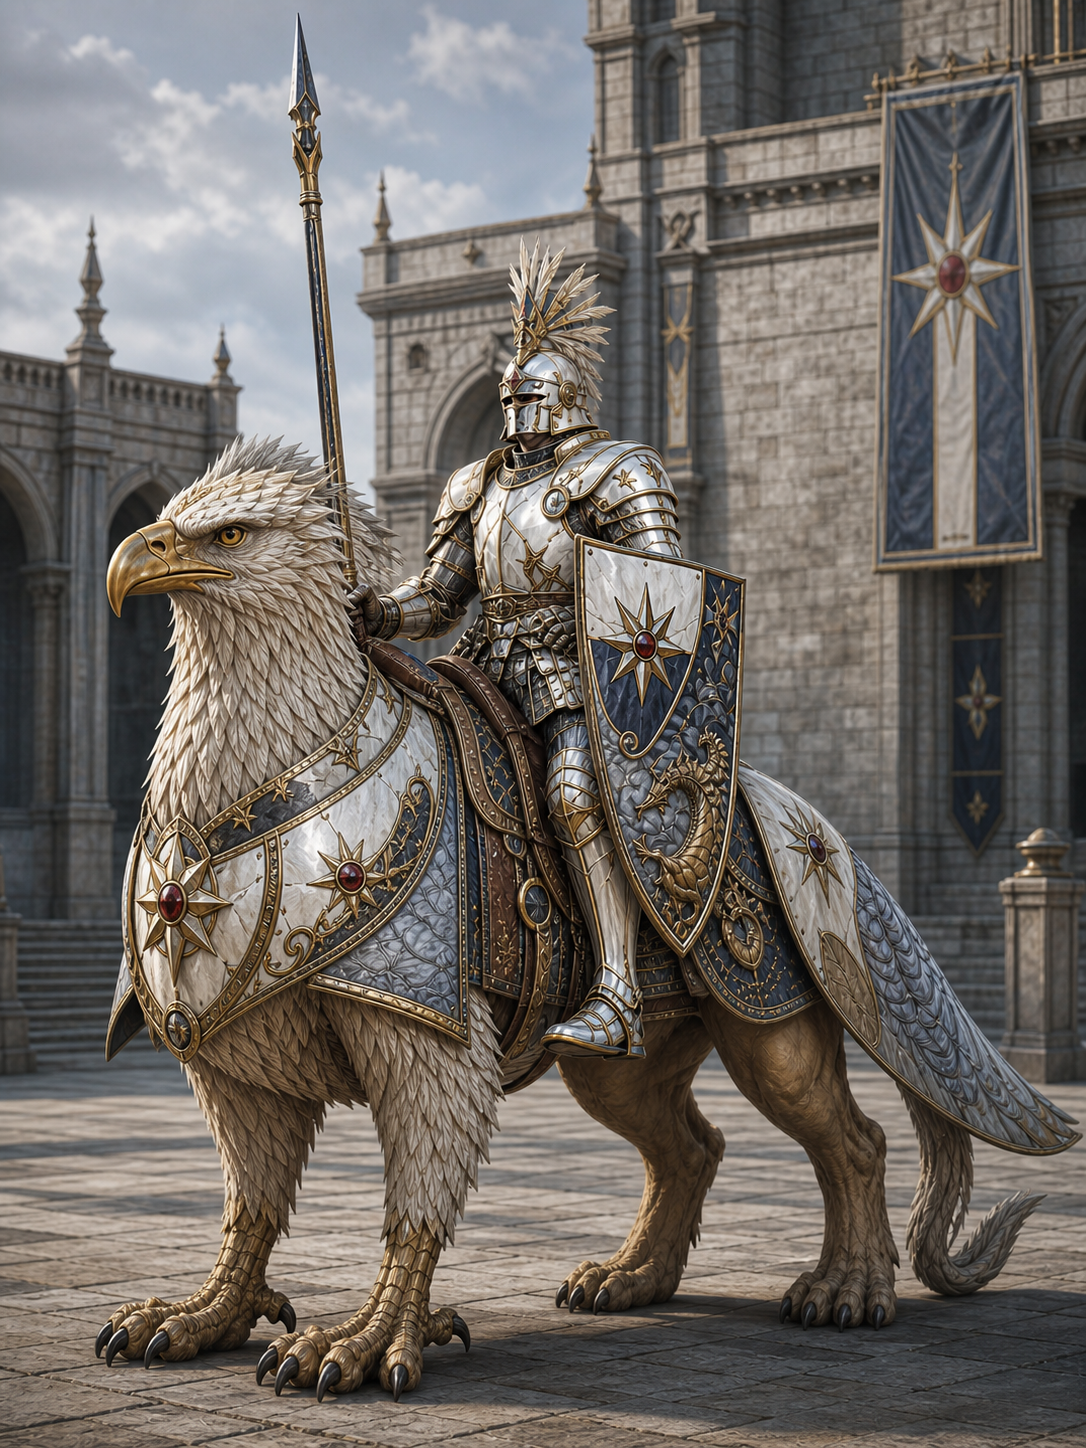
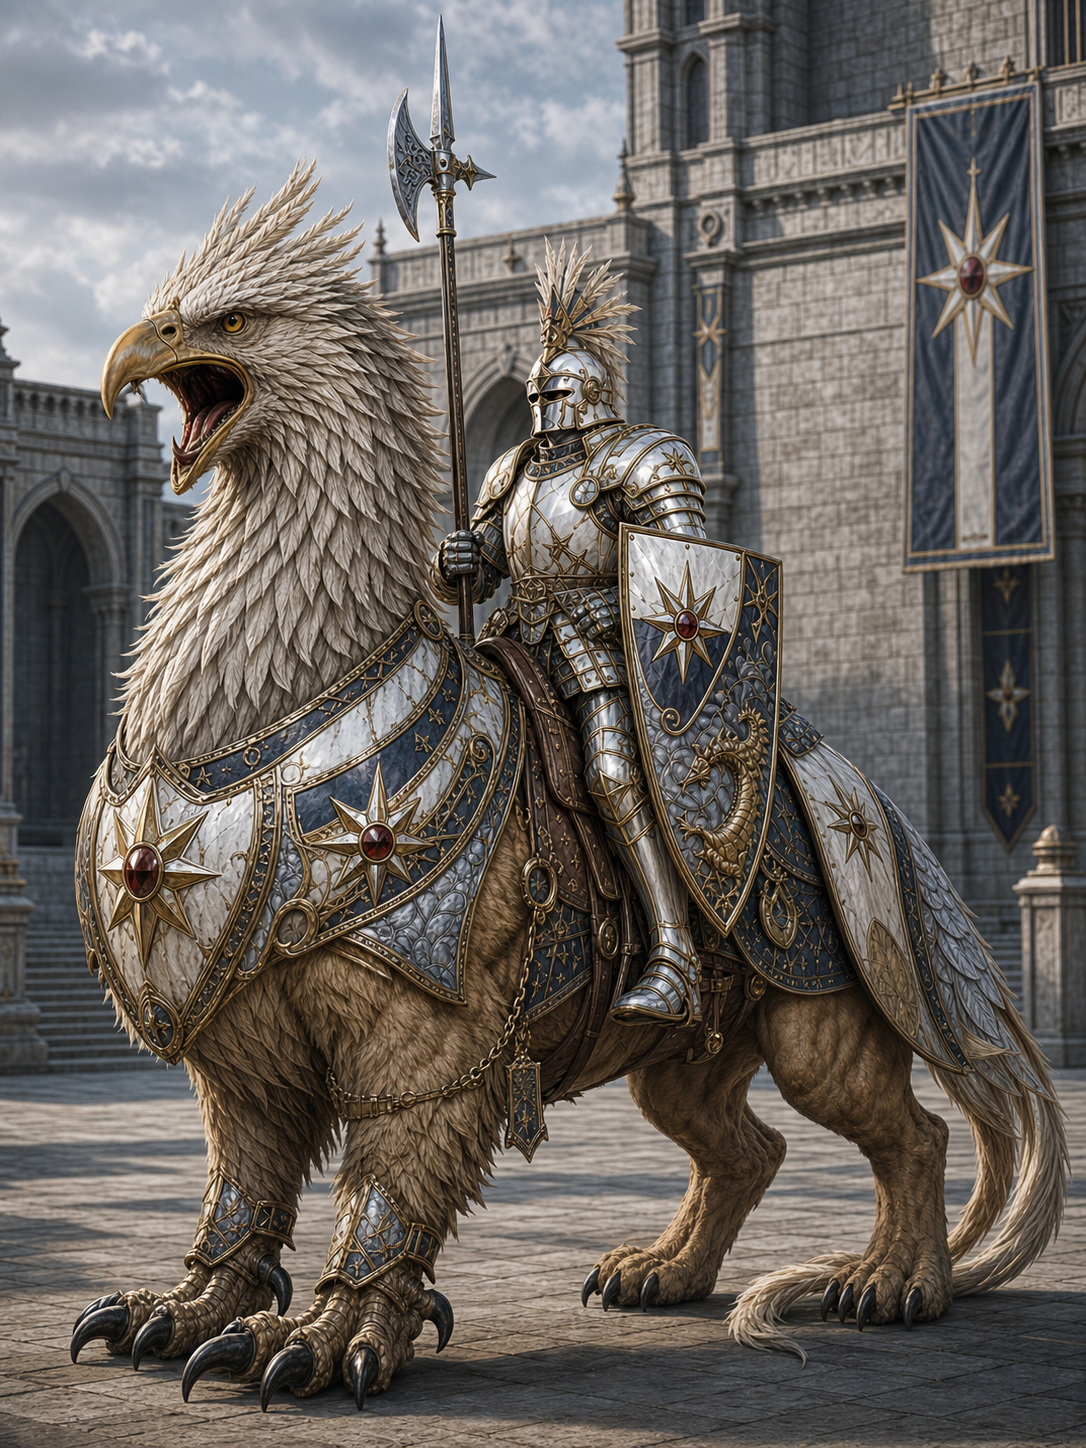
Обновить визуальные референсы всадников

diff --git a/07_Черновики_и_идеи/Входящие_сообщения.md b/07_Черновики_и_идеи/Входящие_сообщения.md
@@ -21,6 +21,56 @@ canon_level: draft
 Пока нет новых необработанных сообщений.
 ## Обработанные входящие
 
+### 2026-06-12. Визуал актива - всадники Никитосиоса со щитом
+
+Статус: обработано.
+Источник: `08_Источники/2026-06-12_визуал_актива_-_всадники_никитосиоса_со_щитом.md`
+Связано: `05_Активы_персонажей/Лорд_Никитосиос/Всадники_Никитосиоса.md`, `05_Активы_персонажей/Лорд_Никитосиос/Щит_Багровой_Гвардии.md`, `11_Медиа/Активы_персонажей/Лорд_Никитосиос/Всадники_Никитосиоса/Всадники_Никитосиоса_визуальный_референс.png`, `11_Медиа/Активы_персонажей/Лорд_Никитосиос/Всадники_Никитосиоса/Промпт_визуального_референса.md`, `11_Медиа/Активы_персонажей/Лорд_Никитосиос/Щит_Багровой_Гвардии/Промпт_визуального_референса.md`
+
+Кратко:
+
+- Обновлен основной визуальный референс всадников Никитосиоса: верховой зверь сделан крупнее и мощнее, алебарда выровнена, щит Багровой Гвардии возвращен в образ всадника.
+
+### 2026-06-12. Визуал актива - демигрифы Рейнбурга
+
+Статус: обработано.
+Источник: `08_Источники/2026-06-12_визуал_актива_-_демигрифы_рейнбурга.md`
+Связано: `05_Активы_персонажей/Император_Александрос/Демигрифы_Рейнбурга.md`, `11_Медиа/Активы_персонажей/Император_Александрос/Демигрифы_Рейнбурга/Демигрифы_Рейнбурга_визуальный_референс.png`, `11_Медиа/Активы_персонажей/Император_Александрос/Демигрифы_Рейнбурга/Промпт_визуального_референса.md`
+
+Кратко:
+
+- Обновлен визуальный референс демигрифов Рейнбурга: всадник сохранен как имперский паладин Александроса, демигриф сделан крупнее, живее и мощнее, оружие зафиксировано как ровная алебарда.
+
+### 2026-06-12. Визуал актива - ровное оружие всадников Никитосиоса
+
+Статус: обработано.
+Источник: `08_Источники/2026-06-12_визуал_актива_-_ровное_оружие_всадников_никитосиоса.md`
+Связано: `05_Активы_персонажей/Лорд_Никитосиос/Всадники_Никитосиоса.md`, `11_Медиа/Активы_персонажей/Лорд_Никитосиос/Всадники_Никитосиоса/Всадники_Никитосиоса_визуальный_референс.png`, `11_Медиа/Активы_персонажей/Лорд_Никитосиос/Всадники_Никитосиоса/Промпт_визуального_референса.md`
+
+Кратко:
+
+- Основной визуальный референс всадников Никитосиоса заменен на версию с почти вертикальным ровным двулезвийным древковым оружием; диагональный вариант с ощущением залома больше не используется.
+
+### 2026-06-12. Визуал актива - всадники Никитосиоса без щита
+
+Статус: обработано.
+Источник: `08_Источники/2026-06-12_визуал_актива_-_всадники_никитосиоса_без_щита.md`
+Связано: `05_Активы_персонажей/Лорд_Никитосиос/Всадники_Никитосиоса.md`, `05_Активы_персонажей/Лорд_Никитосиос/Щит_Багровой_Гвардии.md`, `11_Медиа/Активы_персонажей/Лорд_Никитосиос/Всадники_Никитосиоса/Всадники_Никитосиоса_визуальный_референс.png`, `11_Медиа/Активы_персонажей/Лорд_Никитосиос/Всадники_Никитосиоса/Промпт_визуального_референса.md`
+
+Кратко:
+
+- Основной визуальный референс всадников Никитосиоса исправлен: щит полностью убран, древко двулезвийного оружия сделано ровным, связь с Багровой Гвардией остается через броню, палитру и северный стиль.
+
+### 2026-06-12. Визуал актива - новые всадники Никитосиоса
+
+Статус: обработано.
+Источник: `08_Источники/2026-06-12_визуал_актива_-_новые_всадники_никитосиоса.md`
+Связано: `05_Активы_персонажей/Лорд_Никитосиос/Всадники_Никитосиоса.md`, `11_Медиа/Активы_персонажей/Лорд_Никитосиос/Всадники_Никитосиоса/Всадники_Никитосиоса_визуальный_референс.png`, `11_Медиа/Активы_персонажей/Лорд_Никитосиос/Всадники_Никитосиоса/Промпт_визуального_референса.md`
+
+Кратко:
+
+- Заменен основной визуальный референс всадников Никитосиоса: вместо коня теперь хищный ящероподобный верховой зверь, добавлено двулезвийное древковое оружие, сохранен черно-багровый щит Багровой Гвардии и более легкая броня.
+
 ### 2026-06-10. Сюжет - Михаэль: прибытие в Порт-Лабад и письмо Картоса
 
 Статус: обработано.

diff --git a/05_Активы_персонажей/Лорд_Никитосиос/Всадники_Никитосиоса.md b/05_Активы_персонажей/Лорд_Никитосиос/Всадники_Никитосиоса.md
@@ -10,14 +10,14 @@ parent_asset: Багровая Гвардия
 front_id: FRONT-CRIMSON-PEAK
 visual: 11_Медиа/Активы_персонажей/Лорд_Никитосиос/Всадники_Никитосиоса/Всадники_Никитосиоса_визуальный_референс.png
 visual_status: available
-updated_real_date: 2026-06-10
+updated_real_date: 2026-06-12
 ---
 
 ## Кратко
 
-Всадники Никитосиоса - конная ветвь северной силы Лорда Багровых Пиков, визуально связанная с Багровой Гвардией, но приспособленная к седлу и движению.
+Всадники Никитосиоса - верховая ветвь северной силы Лорда Багровых Пиков, визуально связанная с Багровой Гвардией, но приспособленная к седлу и движению.
 
-Это отдельный визуальный и организационный слой внутри военного языка Никитосиоса. Точная численность, внутреннее деление, типы ездовых животных и боевая готовность не зафиксированы.
+Это отдельный визуальный и организационный слой внутри военного языка Никитосиоса. Точная численность, внутреннее деление, происхождение ездовых зверей и боевая готовность не зафиксированы.
 
 ## Владелец и подчинение
 
@@ -31,17 +31,19 @@ updated_real_date: 2026-06-10
 
 - броня родственна Багровой Гвардии, но чуть легче и подвижнее;
 - основная палитра сохраняет черную обсидиановую сталь и багровые ткани;
-- всадники используют общий щитовый язык Багрового Пика;
+- основной референс заменяет коня крупным хищным ящероподобным верховым зверем с броней, длинным хвостом и тяжелой кавалерийской массой;
+- в основном визуальном языке всадников закреплена длинная алебарда с ровным почти вертикальным древком;
+- в основной верховой референс возвращен щит по языку отдельного актива `Щит Багровой Гвардии`;
 - визуал показывает типичного представителя, а не именного персонажа.
 
-Точные численность, штат, вид конницы, снабжение, место постоянной дислокации и реальная боевая роль остаются открытыми.
+Точные численность, штат, порода или происхождение ездовых зверей, снабжение, место постоянной дислокации и реальная боевая роль остаются открытыми.
 
 ## Роль
 
 - мобильное продолжение военного стиля Никитосиоса;
 - сопровождение, демонстрация силы и возможная полевая поддержка Багровой Гвардии;
 - визуальный мост между тяжелой северной пехотой и более подвижными задачами Багрового Пика;
-- носители общего щита Багровой Гвардии в конном варианте.
+- верховой вариант военного языка Багровой Гвардии с тем же черно-багровым щитовым мотивом, адаптированным к седлу.
 
 ## Визуальный канон
 
@@ -51,23 +53,24 @@ updated_real_date: 2026-06-10
 
 - черная или темно-обсидиановая броня, связанная с Багровой Гвардией;
 - более мобильные сочленения, посадка и плащ, пригодные для верховой службы;
-- багровый шарф, мантия, тканевые вставки или конское покрывало;
+- крупный хищный ящероподобный верховой зверь вместо лошади: длинный хвост, когтистые лапы, узкая голова, темная чешуя, черненая броня и ощущение мощной тяжелой верховой массы;
+- длинная ровная почти вертикальная алебарда с крупным читаемым наконечником, если она не получает новых особых свойств;
+- щит Багровой Гвардии на всаднике: черная сталь, багровые панели, драконьи рельефы и центральная звезда с темно-красным камнем;
+- багровый шарф, мантия, тканевые вставки или покрывало/сбруя на ездовом звере;
 - закрытый или почти закрытый шлем;
-- общий щит Багрового Пика с черно-багровым драконьим мотивом;
 - северная крепостная эстетика без паладинского золота, тар-эламской южной роскоши и демонических элементов.
 
 ## Ограничения и риски
 
 - Не задавать точную численность всадников.
-- Не считать тип ездовых животных окончательно установленным только по визуальному референсу.
+- Не считать точную породу, происхождение, численность или свойства ездовых зверей установленными только по визуальному референсу.
 - Не превращать всадников в готовых драконьих всадников или отдельный драконий корпус.
-- Не добавлять магические свойства брони, щита, коней или оружия.
+- Не добавлять магические свойства брони, ездовых зверей или оружия.
 - Не смешивать всадников Никитосиоса с демигрифами Александроса, рыцарями дракона или гвардией Михаэля.
 
 ## Связанные файлы
 
 - `05_Активы_персонажей/Лорд_Никитосиос/Багровая_Гвардия.md`
-- `05_Активы_персонажей/Лорд_Никитосиос/Щит_Багровой_Гвардии.md`
 - `03_Персонажи/Лорд_Никитосиос.md`
 - `03_Персонажи/Капитан_Эйганн.md`
 - `04_Локации/Багровый_Пик.md`

diff --git a/11_Медиа/Активы_персонажей/Лорд_Никитосиос/Всадники_Никитосиоса/Промпт_визуального_референса.md b/11_Медиа/Активы_персонажей/Лорд_Никитосиос/Всадники_Никитосиоса/Промпт_визуального_референса.md
@@ -6,7 +6,7 @@ status: available
 canon_level: support
 owner: Лорд Никитосиос
 asset: Всадники Никитосиоса
-updated_real_date: 2026-06-10
+updated_real_date: 2026-06-12
 ---
 
 ## Основной файл
@@ -15,35 +15,40 @@ updated_real_date: 2026-06-10
 
 ## Задача
 
-Создать визуальный референс типичного всадника Никитосиоса: конная ветвь в общем стиле Багровой Гвардии, но с немного иной, более мобильной броней и обязательным общим щитом.
+Создать новый основной визуальный референс типичного всадника Никитосиоса: верховая ветвь в общем стиле Багровой Гвардии, но с более мобильной броней, щитом Багровой Гвардии, крупным хищным ящероподобным ездовым зверем вместо лошади и длинной алебардой с ровным почти вертикальным древком.
 
 ## Референсы
 
 - `identity_reference`: `05_Активы_персонажей/Лорд_Никитосиос/Багровая_Гвардия.md`.
-- `identity_reference`: `11_Медиа/Активы_персонажей/Лорд_Никитосиос/Багровая_Гвардия/Багровая_Гвардия_визуальный_референс.png`.
 - `identity_reference`: `05_Активы_персонажей/Лорд_Никитосиос/Щит_Багровой_Гвардии.md`.
+- `identity_reference`: `11_Медиа/Активы_персонажей/Лорд_Никитосиос/Багровая_Гвардия/Багровая_Гвардия_визуальный_референс.png`.
 - `identity_reference`: `11_Медиа/Активы_персонажей/Лорд_Никитосиос/Щит_Багровой_Гвардии/Щит_Багровой_Гвардии_визуальный_референс.png`.
-- `user_reference`: пользователь просит всадников Никитоса, броню немного другую, но похожую на основу, и общий черно-багровый щит для гвардии и всадников.
+- `user_reference`: пользователь приложил образ всадника на хищном ящероподобном верховом звере с длинным хвостом, броней и крупным двулезвийным древковым оружием; просит заменить старую лошадь на похожего зверя, сделать броню/одежду похожей, но легче, а оружие - ровным. После промежуточных версий уточнил, что оружие должно быть прямым, зверь - большим и мощным, оружие - ровной алебардой, а щит нужно вернуть из актива Никитосиоса.
 
 ## Must Keep
 
 - Один типичный всадник, не именной персонаж.
 - Черно-багровая палитра Багрового Пика.
 - Броня похожа на Багровую Гвардию, но более удобна для верховой службы.
-- Общий щит Багровой Гвардии должен быть виден.
+- Верховой зверь должен читаться как крупный, мощный и величественный хищный ящероподобный боевой зверь, а не лошадь.
+- Длинная алебарда должна быть видна, с прямым ровным почти вертикальным древком.
+- Щит должен повторять язык актива `Щит Багровой Гвардии`: черная сталь, багровые панели, драконьи рельефы, центральная звезда и темно-красный камень.
 - Северная крепостная атмосфера, без сцены боя.
 
 ## Must Not Add
 
 - Не делать всадника паладином, рыцарем дракона, демигрифным паладином Александроса или воином Тар-Элама.
 - Не канонизировать драконьих всадников, зрелых драконов или отдельный драконий корпус.
+- Не превращать верхового зверя в лошадь, демигрифа, полноценного дракона или боевого грифона.
+- Не заменять щит случайным паладинским, гномьим, тар-эламским или сине-золотым вариантом.
+- Не делать древко оружия кривым, сломанным, расплавленным или перекрученным.
 - Не задавать точные числа, свойства брони, магические эффекты или штат подразделения.
 - Не добавлять текст, логотипы, рамки, водяные знаки или лишних персонажей.
 
 ## Prompt
 
-Use case: stylized-concept. Asset type: character asset visual reference for a mounted elite unit. Primary request: Visual reference for the mounted riders of Lord Nikitosios, using the same black-and-crimson heraldic shield language as his Crimson Guard. Subject: One typical mounted rider of Nikitosios, posed calmly and not in battle, seated on a dark armored warhorse or other generic dark war mount. The rider should wear heavy but slightly more mobile armor than the Crimson Guard: black obsidian-steel plates, deep crimson cloth accents, reinforced gloves, articulated leg armor, a shorter cloak or riding mantle, and a closed or mostly closed helmet. The armor should feel clearly related to the Crimson Guard but adapted for saddle use and movement. The rider carries the shared black-and-crimson heraldic shield on the arm or strapped near the saddle, so the shield reads as part of both the Guard and the riders. Scene/backdrop: cold northern fortress courtyard of the Crimson Peak, stone towers, snow-dusted ground, red banners faint in the distance, no active combat. Style/medium: cinematic realistic heroic dark fantasy concept art, high-detail materials, solemn military visual reference. Composition/framing: vertical 3:4, one mounted rider centered, horse and rider fully or nearly fully visible, clear readable silhouette, the shield clearly visible. Lighting/mood: cold northern daylight, dramatic shadows on black metal, restrained crimson highlights, disciplined and severe atmosphere. Color palette: black, dark steel, deep crimson, muted snow gray, small antique silver highlights. Materials/textures: scuffed blackened steel, worn crimson cloth, leather straps, saddle gear, dark horse tack, brushed metal shield edge, realistic patina. Constraints: show a mounted unit visual reference, not a battle scene; no text, no logos, no watermark, no frame; keep the rider visually related to the Crimson Guard but lighter and more mobile; do not make it look like Tar-Elam, paladins, or a cavalry unit from another kingdom.
+Use case: precise-object-edit. Asset type: project-bound character asset visual reference for the mounted riders of Lord Nikitosios. Primary request: corrected replacement version of the mounted rider image: make the mount larger and more imposing, add the Crimson Guard shield from the separate shield asset, and fix the weapon as a straight upright halberd. Subject: one typical mounted rider of Lord Nikitosios, not a named character, seated on a massive predatory reptilian mount instead of a horse. The mount should resemble a dark armored fantasy raptor or drake-beast: long tail, clawed feet, narrow predatory head, organic scales, fitted blackened metal barding, and heavy cavalry presence. Rider: black obsidian-steel armor related to the Crimson Guard but lighter and more mobile for riding, articulated plates, crimson scarf or short riding mantle, dark leather straps, closed or mostly closed helmet, severe northern fortress style. Shield: one visible Crimson Guard shield on the rider, using the established shield asset design - black steel, deep crimson panels, dragon reliefs, central star medallion with a dark red gem; the shield must be integrated naturally with the rider and not float. Weapon: one single long halberd held upright beside the rider, with a readable axe blade and spear point, and a perfectly straight dark shaft; the shaft must be a single continuous cylinder from the rider's hand to the blade, with no kink at the hand, no curve, no bend, no offset segments, no double shaft and no perspective warp. Scene/backdrop: cold northern fortress courtyard of the Crimson Peak, stone towers, snow-dusted ground, faint crimson banners, no active combat. Style/medium: cinematic realistic heroic dark fantasy concept art, high-detail materials, project visual reference quality, not anime, not comic. Composition/framing: vertical 3:4, full or nearly full mount and rider visible, centered readable silhouette, the shield is clearly visible, the upright halberd is clear against the background and does not cross the rider's torso, single rider only. Lighting/mood: cold northern daylight, dramatic shadows on blackened metal, restrained crimson highlights, disciplined and severe. Color palette: black, dark steel, deep crimson, muted snow gray, small antique silver highlights; no blue-dominant palette, no bright gold paladin armor. Materials/textures: scuffed blackened steel, worn crimson cloth, reptilian scales, leather saddle harness, realistic patina, dragon-relief shield face. Constraints: include exactly one visible Crimson Guard shield; no text, no logo, no watermark, no frame; no extra people; no battle scene; do not add magical effects; do not imply a mature dragon corps; replace the horse with the reptilian mount.
 
 ## Negative Prompt
 
-no anime, no cartoon, no comic style, no modern objects, no firearms, no blue-dominant palette, no desert motifs, no bright gold paladin armor, no oversized fantasy horns, no random heraldry, no extra people, no cluttered background, no readable text, no logo, no watermark
+no missing shield, no random shield design, no blue shield, no gold paladin shield, no buckler, no anime, no cartoon, no comic style, no modern objects, no firearms, no diagonal polearm, no curved shaft, no bent polearm, no kinked shaft, no two-part shaft, no offset shaft, no warped weapon, no melted metal, no blue-dominant palette, no desert motifs, no bright gold paladin armor, no oversized fantasy horns, no random heraldry, no extra people, no cluttered background, no readable text, no logo, no watermark

diff --git a/11_Медиа/Активы_персонажей/Император_Александрос/Демигрифы_Рейнбурга/Промпт_визуального_референса.md b/11_Медиа/Активы_персонажей/Император_Александрос/Демигрифы_Рейнбурга/Промпт_визуального_референса.md
@@ -6,7 +6,7 @@ status: available
 canon_level: support
 owner: Император Александрос
 asset: Демигрифы Рейнбурга
-updated_real_date: 2026-06-10
+updated_real_date: 2026-06-12
 ---
 
 ## Основной файл
@@ -15,22 +15,25 @@ updated_real_date: 2026-06-10
 
 ## Задача
 
-Создать основной визуальный референс демигрифов Рейнбурга как формирующейся верховой силы Александроса: один паладин в бело-золотой имперской броне на одном демигрифе, без сцены боя и без группы.
+Создать основной визуальный референс демигрифов Рейнбурга как формирующейся верховой силы Александроса: один паладин в бело-золотой имперской броне на одном крупном и величественном демигрифе, без сцены боя и без группы. Обновление от 2026-06-12: самого солдата оставить в прежнем паладинском типе, но демигрифа сделать больше, живее, мощнее и сочнее по пользовательскому референсу; оружие всадника должно читаться как ровная алебарда.
 
 ## Референсы
 
 - `identity_reference`: `05_Активы_персонажей/Император_Александрос/Демигрифы_Рейнбурга.md`.
 - `identity_reference`: `01_Кампания/Ветки/Александрос/Сцена_020_Королевский_грифон_и_демигрифы_Рейнбурга.md`.
 - `identity_reference`: `04_Локации/Рейнбург.md`.
+- `user_reference`: изображение с крупным величественным боевым демигрифом/грифоньим верховым зверем, переданное пользователем 2026-06-12.
 - `style_reference`: Империя Света, паладины Александроса, Рейнбург как военный город-академия, светлая тяжелая кавалерия, высокая дисциплина.
 
 ## Must Keep
 
 - Один паладин Александроса верхом на одном демигрифе.
-- Демигриф должен читаться как крепкое верховое существо с львиным телом и орлиной головой, а не как лошадь.
+- Демигриф должен читаться как крупное, величественное и мощное верховое существо с львиным телом, орлиной головой, выразительным хохлом, тяжелыми лапами и живым характером, а не как лошадь.
 - Бело-золотая имперская паладинская эстетика с серебристой сталью и аккуратной геральдикой Света.
+- Паладин должен сохранять прежний солдатский типаж и не становиться новым именным персонажем.
+- Оружие всадника - одна четко читаемая алебарда с прямым древком и чистой геометрией наконечника.
 - Рейнбургская военная подача: камень, башни, академическая строгость, тренировочный или парадный порядок.
-- Вертикальный формат 3:4, читаемый силуэт, возможность рассмотреть броню, седло, щит, копье и демигрифа.
+- Вертикальный формат 3:4, читаемый силуэт, возможность рассмотреть броню, седло, щит, алебарду и демигрифа.
 
 ## Must Not Add
 
@@ -38,12 +41,13 @@ updated_real_date: 2026-06-10
 - Не превращать демигрифов в лошадей, драконов, обычных грифонов или королевского грифона Александроса.
 - Не делать сцену штурма, массовую битву, карту или сюжетную иллюстрацию.
 - Не смешивать с Багровой Гвардией Никитосиоса, рыцарями дракона, Тар-Эламом или орденами Боромира.
+- Не делать оружие кривым, волнистым, сломанным, раздвоенным или расплавленным; не добавлять несколько конфликтующих древковых оружий.
 - Не добавлять читаемый текст, логотипы, рамки или водяные знаки.
 
 ## Prompt
 
-Use case: stylized-concept. Asset type: character asset visual reference for a fantasy campaign archive. Primary request: A visual reference of Alexandros's Rheinburg demigryph cavalry, shown as a single imperial paladin mounted on one demigryph. Scene/backdrop: Rheinburg training yard or parade ground, sober imperial military setting, stone towers and academy architecture in the background, not a battle scene. Subject: one mounted paladin in white-and-gold imperial plate on a sturdy demigryph. The demigryph should read clearly as a lion-eagle heavy cavalry mount: powerful leonine body, eagle head, feathered neck, talons, disciplined posture, fitted cavalry tack and barding. Style/medium: cinematic realistic dark fantasy illustration, high detail, polished concept art, serious heroic tone. Composition/framing: vertical 3:4, full-body subject, clear silhouette, no group, no extra riders, no extreme foreshortening. Lighting/mood: crisp daylight, noble, disciplined, ceremonial but militarily credible. Color palette: ivory, white, burnished gold, pale steel, deep blue accents, stone gray, restrained crimson heraldry. Materials/textures: polished plate armor, heraldic cloth, feathered and scaled barding, leather tack, steel lance tips, engraved saddle hardware, stone and metal architecture in the background. Constraints: the subject must clearly be Alexandros's imperial paladin on a demigryph; do not make it a horse; do not depict dragons or the royal griffon as the main mount; no text, no watermark, no logo, no modern gear; keep it as a reference image for the unit rather than a combat scene.
+Use case: stylized-concept. Asset type: character asset visual reference for a fantasy campaign archive. Primary request: A visual reference of Alexandros's Rheinburg demigryph cavalry, shown as a single imperial paladin mounted on one large majestic demigryph. Scene/backdrop: Rheinburg training yard or parade ground, sober imperial military setting, stone towers and academy architecture in the background, not a battle scene. Subject: one mounted paladin in white-and-gold imperial plate on a massive, vivid, powerful demigryph; preserve the rider's existing imperial paladin identity and heraldic style. The demigryph should read clearly as a lion-eagle heavy cavalry mount: overwhelming leonine body, eagle head, proud feathered crest and mane, open intense expression, talons, muscular legs, disciplined posture, fitted cavalry tack and barding. The rider must carry one clean straight halberd with a perfectly straight shaft and a readable halberd head; avoid a spear-like silhouette. Style/medium: cinematic realistic dark fantasy illustration, high detail, polished concept art, serious heroic tone, rich and alive. Composition/framing: vertical 3:4, full-body subject, clear silhouette, no group, no extra riders, no extreme foreshortening. Lighting/mood: crisp daylight, noble, disciplined, ceremonial but militarily credible, with a strong sense of weight and power. Color palette: ivory, white, burnished gold, pale steel, deep blue accents, stone gray, restrained crimson heraldry. Materials/textures: polished plate armor, heraldic cloth, feathered and scaled barding, leather tack, straight halberd shaft and steel blade, engraved saddle hardware, stone and metal architecture in the background. Constraints: the subject must clearly be Alexandros's imperial paladin on a demigryph; do not make it a horse; do not depict dragons or the royal griffon as the main mount; no text, no watermark, no logo, no modern gear; keep it as a reference image for the unit rather than a combat scene.
 
 ## Negative Prompt
 
-no anime, no cartoon, no comic style, no modern clothing, no modern weapons, no firearms, no glowing sci-fi armor, no horse anatomy, no dragons, no black-and-crimson obsidian Crimson Guard palette, no desert motifs, no Tar-Elam ornamentation, no chaotic battlefield, no random heraldry, no extra limbs, no distorted hands, no cluttered background, no readable text, no logo, no watermark
+no anime, no cartoon, no comic style, no modern clothing, no modern weapons, no firearms, no glowing sci-fi armor, no horse anatomy, no dragons, no ordinary griffon, no royal griffon as the main mount, no black-and-crimson obsidian Crimson Guard palette, no desert motifs, no Tar-Elam ornamentation, no chaotic battlefield, no random heraldry, no extra limbs, no distorted hands, no bent weapon shaft, no wavy halberd, no broken polearm, no duplicated halberds, no cluttered background, no readable text, no logo, no watermark

diff --git a/08_Источники/2026-06-12_визуал_актива_-_всадники_никитосиоса_без_щита.md b/08_Источники/2026-06-12_визуал_актива_-_всадники_никитосиоса_без_щита.md
@@ -1,0 +1,12 @@
+# Визуал актива - всадники Никитосиоса без щита
+
+---
+type: source_note
+status: processed
+canon_level: draft
+received_real_date: 2026-06-12
+---
+
+```text
+Пользователь уточнил правку визуального референса всадников Никитосиоса / Багровой кавалерии: убрать щит полностью и исправить оружие, потому что древко в предыдущей версии получилось кривым. Итоговый визуал должен показывать всадника на ящероподобном верховом звере без щита, с ровным длинным двулезвийным древковым оружием.
+```

diff --git a/08_Источники/2026-06-12_визуал_актива_-_всадники_никитосиоса_со_щитом.md b/08_Источники/2026-06-12_визуал_актива_-_всадники_никитосиоса_со_щитом.md
@@ -1,0 +1,12 @@
+# Визуал актива - всадники Никитосиоса со щитом
+
+---
+type: source_note
+status: processed
+canon_level: draft
+received_real_date: 2026-06-12
+---
+
+```text
+Пользователь попросил обновить визуальный референс всадников Никитосиоса: сделать верхового зверя большим и мощным, алебарду ровной и прямой, а также добавить щит из отдельного актива Никитосиоса - Щит Багровой Гвардии.
+```

diff --git a/08_Источники/2026-06-12_визуал_актива_-_демигрифы_рейнбурга.md b/08_Источники/2026-06-12_визуал_актива_-_демигрифы_рейнбурга.md
@@ -1,0 +1,12 @@
+# Визуал актива - демигрифы Рейнбурга
+
+---
+type: source_note
+status: processed
+canon_level: draft
+received_real_date: 2026-06-12
+---
+
+```text
+Пользователь попросил заменить визуальный референс демигрифов Рейнбурга в активах Императора Александроса. Требования: самого солдата оставить прежним по типажу, демигрифа сделать крупным, величественным, живым, мощным и сочным по приложенному референсу; рыцарь должен быть с алебардой, оружие должно быть ровным и читаемым.
+```

diff --git a/08_Источники/2026-06-12_визуал_актива_-_новые_всадники_никитосиоса.md b/08_Источники/2026-06-12_визуал_актива_-_новые_всадники_никитосиоса.md
@@ -1,0 +1,12 @@
+# Визуал актива - новые всадники Никитосиоса
+
+---
+type: source_note
+status: processed
+canon_level: draft
+received_real_date: 2026-06-12
+---
+
+```text
+Пользователь попросил заменить старый визуальный референс всадников Никитосиоса / Багровой кавалерии: убрать лошадь, сделать верхового зверя как на приложенном референсе - хищный ящероподобный боевой зверь с длинным хвостом и броней; дать похожее древковое оружие с крупным двулезвийным наконечником; сохранить щит Багровой Гвардии; одежду/броню оставить в близком стиле, но сделать легче и подвижнее. Старый вариант с конем удалить/заменить основным визуалом.
+```

diff --git a/08_Источники/2026-06-12_визуал_актива_-_ровное_оружие_всадников_никитосиоса.md b/08_Источники/2026-06-12_визуал_актива_-_ровное_оружие_всадников_никитосиоса.md
@@ -1,0 +1,12 @@
+# Визуал актива - ровное оружие всадников Никитосиоса
+
+---
+type: source_note
+status: processed
+canon_level: draft
+received_real_date: 2026-06-12
+---
+
+```text
+Пользователь уточнил, что даже после удаления щита оружие всадника Никитосиоса все еще выглядит кривым. Исправление: основной визуальный референс должен использовать не диагональное, а почти вертикальное двулезвийное древковое оружие с одним цельным прямым древком без залома в руке.
+```

diff --git a/05_Активы_персонажей/Лорд_Никитосиос/Щит_Багровой_Гвардии.md b/05_Активы_персонажей/Лорд_Никитосиос/Щит_Багровой_Гвардии.md
@@ -10,18 +10,18 @@ parent_asset: null
 front_id: FRONT-CRIMSON-PEAK
 visual: 11_Медиа/Активы_персонажей/Лорд_Никитосиос/Щит_Багровой_Гвардии/Щит_Багровой_Гвардии_визуальный_референс.png
 visual_status: available
-updated_real_date: 2026-06-10
+updated_real_date: 2026-06-12
 ---
 
 ## Кратко
 
-Щит Багровой Гвардии - общий визуальный и снаряженческий референс для войск Никитосиоса: пешей Багровой Гвардии и Всадников Никитосиоса.
+Щит Багровой Гвардии - визуальный и снаряженческий референс для Багровой Гвардии Никитосиоса, прежде всего пешей, но теперь также используемый как гербовый язык в основном референсе всадников.
 
 Это не уникальный магический артефакт, а образцовый тип щита и гербовый язык северной силы Лорда Багровых Пиков.
 
 ## Владелец и подчинение
 
-Щит связан с Лордом Никитосиосом и его войсками Багрового Пика. Визуально он поддерживает единство Багровой Гвардии и всадников, не создавая отдельного рода войск.
+Щит связан с Лордом Никитосиосом и его пешей Багровой Гвардией. Он не создает отдельного рода войск.
 
 ## Канонический статус
 
@@ -30,9 +30,9 @@ updated_real_date: 2026-06-10
 - основная палитра щита - черная сталь и глубокий багровый цвет;
 - форма - вытянутый тяжелый щит для элитного строевого воина;
 - мотивы - драконьи рельефы и центральная звезда с темно-красным камнем;
-- щит предназначен как общий стиль для Багровой Гвардии и всадников Никитосиоса.
+- щит предназначен как стиль для Багровой Гвардии и может появляться в верховом визуальном референсе всадников Никитосиоса.
 
-Точные материалы, вес, количество таких щитов, защитные свойства и магические эффекты не зафиксированы.
+Точные материалы, вес, количество таких щитов, защитные свойства, штатное распределение между пешими и всадниками и магические эффекты не зафиксированы.
 
 ## Визуальный канон
 
@@ -51,7 +51,6 @@ updated_real_date: 2026-06-10
 ## Связанные файлы
 
 - `05_Активы_персонажей/Лорд_Никитосиос/Багровая_Гвардия.md`
-- `05_Активы_персонажей/Лорд_Никитосиос/Всадники_Никитосиоса.md`
 - `03_Персонажи/Лорд_Никитосиос.md`
 - `04_Локации/Багровый_Пик.md`
 - `11_Медиа/Активы_персонажей/Лорд_Никитосиос/Щит_Багровой_Гвардии/Промпт_визуального_референса.md`

diff --git a/08_Источники/00_Индекс_источников.md b/08_Источники/00_Индекс_источников.md
@@ -4,7 +4,7 @@
 type: source_index
 status: active
 canon_level: support
-generated_real_date: 2026-06-11
+generated_real_date: 2026-06-12
 generated_by: tools/Собрать_индекс_источников.ps1
 ---
 
@@ -150,3 +150,8 @@ generated_by: tools/Собрать_индекс_источников.ps1
 | 2026-06-10 | new | source_note | обработано | Сюжет - Александрос: флот, Оберин, Гормаш и первые ордена | `08_Источники/2026-06-10_сюжет_-_александрос_флот,_оберин,_гормаш_и_первые_ордена.md` |
 | 2026-06-10 | processed | source_note | обработано | Сюжет - Михаэль: прибытие в Порт-Лабад и письмо Картоса | `08_Источники/2026-06-10_сюжет_-_михаэль_прибытие_в_порт-лабад_и_письмо_картоса.md` |
 | 2026-06-10 | new | source_note | обработано | Сюжет - Общий - проводы в Порт-Лабад | `08_Источники/2026-06-10_сюжет_-_общий_-_проводы_в_порт-лабад.md` |
+| 2026-06-12 | processed | source_note | обработано | Визуал актива - всадники Никитосиоса без щита | `08_Источники/2026-06-12_визуал_актива_-_всадники_никитосиоса_без_щита.md` |
+| 2026-06-12 | processed | source_note | обработано | Визуал актива - всадники Никитосиоса со щитом | `08_Источники/2026-06-12_визуал_актива_-_всадники_никитосиоса_со_щитом.md` |
+| 2026-06-12 | processed | source_note | обработано | Визуал актива - демигрифы Рейнбурга | `08_Источники/2026-06-12_визуал_актива_-_демигрифы_рейнбурга.md` |
+| 2026-06-12 | processed | source_note | обработано | Визуал актива - новые всадники Никитосиоса | `08_Источники/2026-06-12_визуал_актива_-_новые_всадники_никитосиоса.md` |
+| 2026-06-12 | processed | source_note | обработано | Визуал актива - ровное оружие всадников Никитосиоса | `08_Источники/2026-06-12_визуал_актива_-_ровное_оружие_всадников_никитосиоса.md` |

diff --git a/05_Активы_персонажей/Император_Александрос/Демигрифы_Рейнбурга.md b/05_Активы_персонажей/Император_Александрос/Демигрифы_Рейнбурга.md
@@ -10,7 +10,7 @@ parent_asset: null
 front_id: FRONT-BERTRAM-LEGACY
 visual: 11_Медиа/Активы_персонажей/Император_Александрос/Демигрифы_Рейнбурга/Демигрифы_Рейнбурга_визуальный_референс.png
 visual_status: available
-updated_real_date: 2026-06-10
+updated_real_date: 2026-06-12
 ---
 
 ## Кратко
@@ -31,7 +31,9 @@ updated_real_date: 2026-06-10
 
 ## Визуальный референс
 
-Основной визуальный референс показывает одиночный эталон светлой имперской паладинской эстетики будущей демигрифной кавалерии: один паладин, один демигриф, бело-золотые доспехи и рейнбургская подача без сцены боя.
+Основной визуальный референс показывает одиночный эталон светлой имперской паладинской эстетики будущей демигрифной кавалерии: один паладин, один крупный и величественный демигриф, бело-золотые доспехи, рейнбургская подача и ровная алебарда без сцены боя.
+
+Визуал обновлен по пользовательскому референсу: демигриф должен ощущаться большим, живым и мощным верховым зверем с львиным телом, орлиной головой, выразительным хохлом и тяжелой кавалерийской массой. Сам всадник сохраняет прежний имперский паладинский типаж и геральдику.
 
 Файл: `11_Медиа/Активы_персонажей/Император_Александрос/Демигрифы_Рейнбурга/Демигрифы_Рейнбурга_визуальный_референс.png`
 